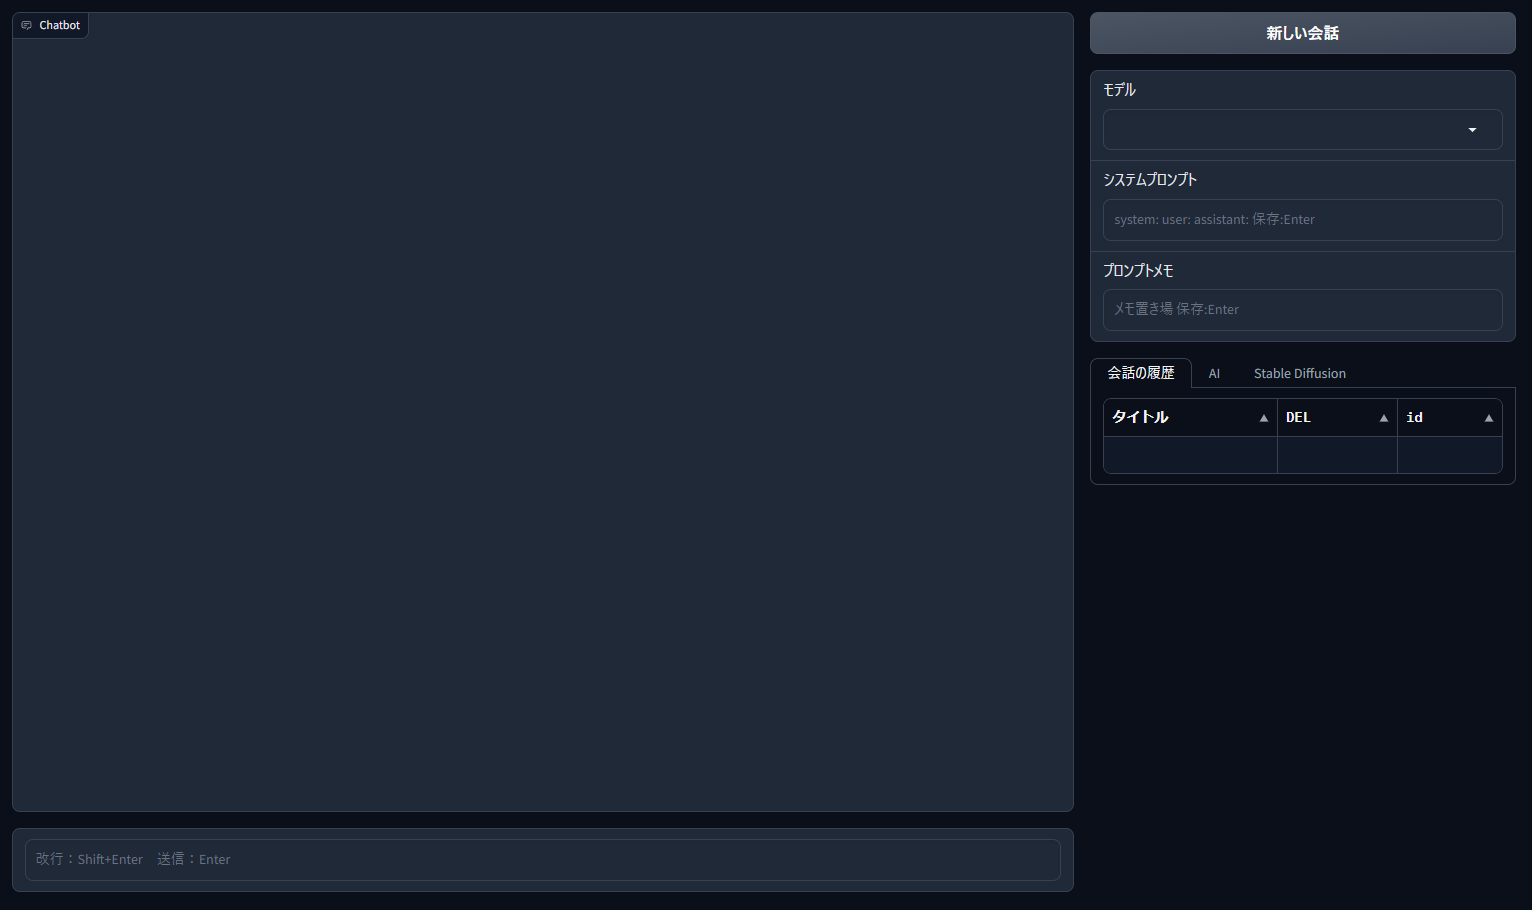
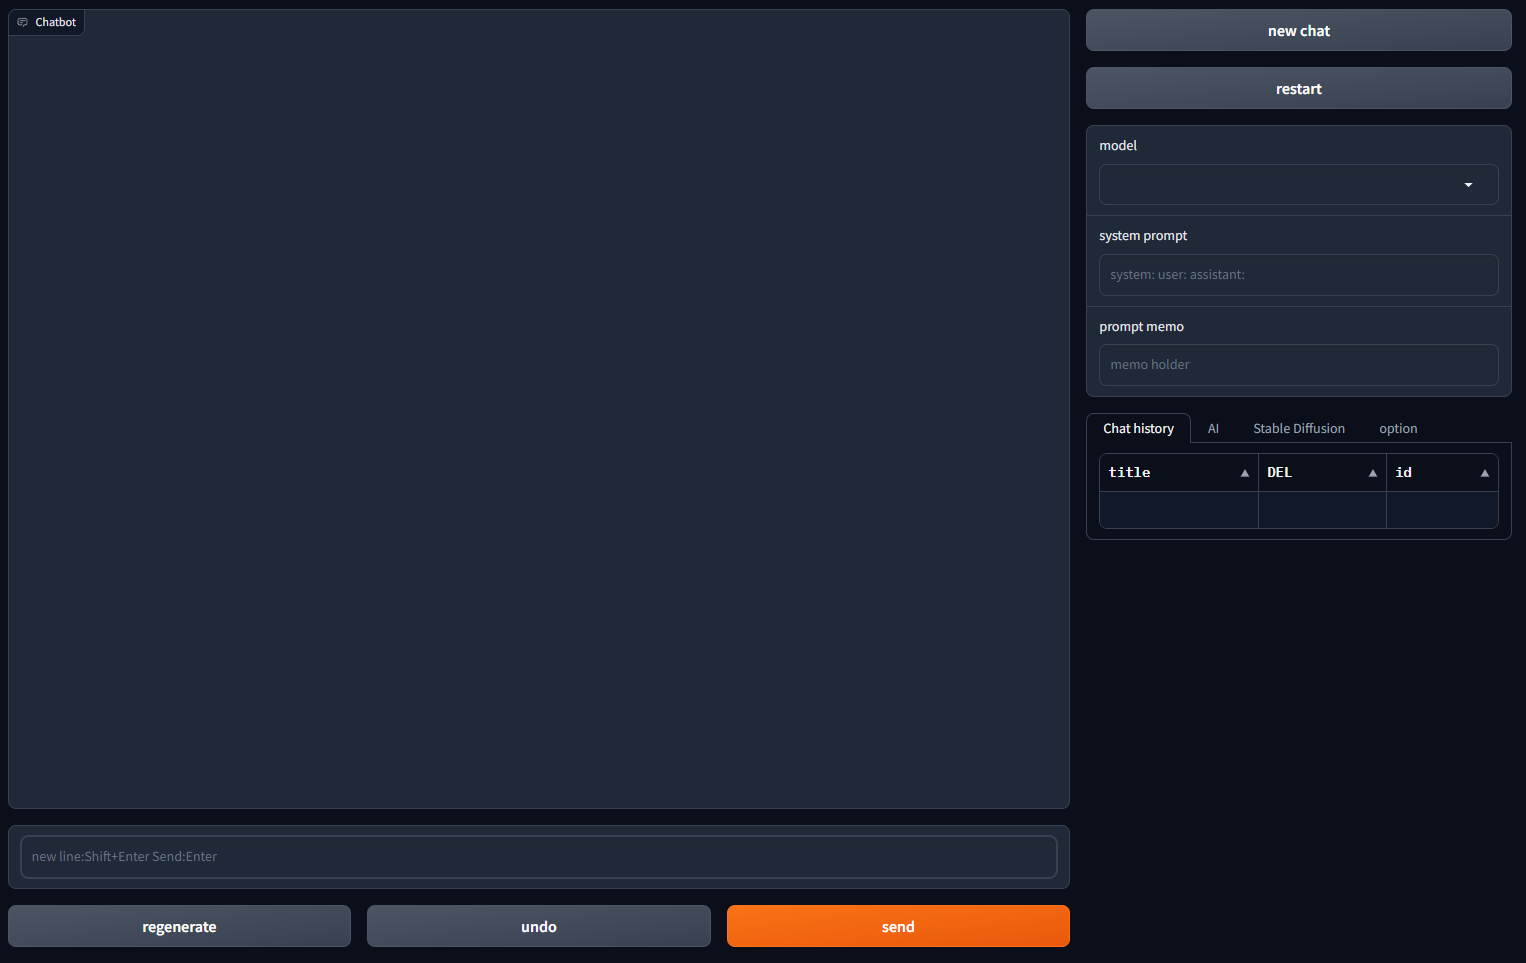
Update README.md

diff --git a/chatswitch.py b/chatswitch.py
@@ -115,7 +115,7 @@ def init_chat():
         'temperature': 0.7,
         'top_p': 0.37,
         'top_k': 100,
-        'typical_p': 1.1,
+        'typical_p': 1,
         'repetition_penalty': 1.23,
         'encoder_repetition_penalty': 1,
         'no_repeat_ngram_size': 0,
@@ -132,7 +132,6 @@ def init_chat():
         'sd_negative': '',
         'sd_chekpoint': '',
     }
-
 
 def load_conversation(data: gr.SelectData, list_history, chatbot) -> int:
     global conversations
@@ -274,7 +273,7 @@ def chat(history,model_txt,ai_temperature,ai_top_p,ai_top_k,ai_typical_p,ai_repe
     talk_paramaters["repetition_penalty"] = ai_repetition_penalty
     talk_paramaters["encoder_repetition_penalty"] = ai_encoder_repetition_penalty
     talk_paramaters["no_repeat_ngram_size"] = ai_no_repeat_ngram_size
-    talk_paramaters["seed"] = int(ai_seed)
+    talk_paramaters["seed"] = int(ai_seed) if ai_seed != '' else -1
     sd_paramaters["sd_enable"] = sd_enable
     sd_paramaters["sd_host"] = sd_host
     sd_paramaters["sd_chekpoint"] = sd_chekpoint
@@ -308,11 +307,11 @@ def chat(history,model_txt,ai_temperature,ai_top_p,ai_top_k,ai_typical_p,ai_repe
     except:
         print(f"genarate_talk error")
         history.pop(-1)
-        return history,user_input,seed
+        return history,user_input
     
     history[-1][1] = output
 
-    ai_response = {"role": talk_paramaters['assistant_role_name'], "content": history[-1][1]}
+    ai_response = {"role": talk_paramaters['assistant_role_name'], "content": history[-1][1], "model": model_txt, "seed": seed}
     messages.append(ai_response)
     if "title" not in current_conversation:
         current_conversation["title"] = user_input[:20]
@@ -329,7 +328,7 @@ def chat(history,model_txt,ai_temperature,ai_top_p,ai_top_k,ai_typical_p,ai_repe
     memory["last_conversation"] = current_conversation["id"]
 
     save_memory()
-    return history,"",seed
+    return history,""
 
 def get_memory_variable(var_name):
     if var_name in memory:
@@ -686,6 +685,7 @@ with gr.Blocks(title="ChatSwitch") as demo:
                 send_button = gr.Button(value=_("send"),variant="primary")
         with gr.Column(scale=2):
             new_button = gr.ClearButton(value=_("new chat"),components=[chatbot])
+            restart_button = gr.Button(value=_("restart"))
             model_txt = gr.Dropdown(label=_("model"),value=model_init,container=True,choices=llm_model_list)
             system_txt = gr.Textbox(label=_("system prompt"),placeholder="system: user: assistant:",value=get_memory_variable("last_system_prompt"),container=True,lines=1)
             prompt_memo = gr.Textbox(label=_("prompt memo"),placeholder=_("memo holder"),value=get_memory_variable("prompt_memo"),container=True,lines=1)
@@ -710,16 +710,17 @@ with gr.Blocks(title="ChatSwitch") as demo:
                 sd_prompt = gr.Textbox(label="prompt",value=sd_prompt_init(),lines=3)
                 sd_negative = gr.Textbox(label="negative prompt",value=sd_negative_init(),lines=2)
             with gr.Tab("option"):
-                language = gr.Dropdown(label="language *need python reboot",value=language_init,container=True,choices=["Englich","日本語"])
+                language = gr.Dropdown(label="language *need restart & reload",value=language_init,container=True,choices=["Englich","日本語"])
 
-    user_prompt_submit = user_prompt.submit(add_text, [chatbot, user_prompt, system_txt], [chatbot, user_prompt, system_txt]).then(chat, inputs=[chatbot,model_txt,ai_temperature,ai_top_p,ai_top_k,ai_typical_p,ai_repetition_penalty,ai_encoder_repetition_penalty,ai_no_repeat_ngram_size,ai_min_length,ai_max_new_tokens,ai_seed,sd_enable,sd_host,sd_prompt,sd_negative,sd_chekpoint], outputs=[chatbot,user_prompt,ai_seed]).then(add_history, list_history, list_history)
+    user_prompt_submit = user_prompt.submit(add_text, [chatbot, user_prompt, system_txt], [chatbot, user_prompt, system_txt]).then(chat, inputs=[chatbot,model_txt,ai_temperature,ai_top_p,ai_top_k,ai_typical_p,ai_repetition_penalty,ai_encoder_repetition_penalty,ai_no_repeat_ngram_size,ai_min_length,ai_max_new_tokens,ai_seed,sd_enable,sd_host,sd_prompt,sd_negative,sd_chekpoint], outputs=[chatbot,user_prompt]).then(add_history, list_history, list_history)
     user_prompt_submit.then(lambda x: gr.update(value=x,interactive=True),[user_prompt],[user_prompt])
-    send = send_button.click(add_text, [chatbot, user_prompt, system_txt], [chatbot, user_prompt, system_txt]).then(chat, inputs=[chatbot,model_txt,ai_temperature,ai_top_p,ai_top_k,ai_typical_p,ai_repetition_penalty,ai_encoder_repetition_penalty,ai_no_repeat_ngram_size,ai_min_length,ai_max_new_tokens,ai_seed,sd_enable,sd_host,sd_prompt,sd_negative,sd_chekpoint], outputs=[chatbot,user_prompt,ai_seed]).then(add_history, list_history, list_history)
+    send = send_button.click(add_text, [chatbot, user_prompt, system_txt], [chatbot, user_prompt, system_txt]).then(chat, inputs=[chatbot,model_txt,ai_temperature,ai_top_p,ai_top_k,ai_typical_p,ai_repetition_penalty,ai_encoder_repetition_penalty,ai_no_repeat_ngram_size,ai_min_length,ai_max_new_tokens,ai_seed,sd_enable,sd_host,sd_prompt,sd_negative,sd_chekpoint], outputs=[chatbot,user_prompt]).then(add_history, list_history, list_history)
     send.then(lambda x: gr.update(value=x,interactive=True),[user_prompt],[user_prompt])
     undo_button.click(undo_message,[chatbot,user_prompt,list_history],[chatbot,user_prompt,list_history])
-    regenerate = regenerate_button.click(undo_message,[chatbot,user_prompt,list_history],[chatbot,user_prompt,list_history]).then(set_random_seed,outputs=ai_seed).then(add_text,[chatbot,user_prompt,system_txt], [chatbot,user_prompt,system_txt]).then(chat, inputs=[chatbot,model_txt,ai_temperature,ai_top_p,ai_top_k,ai_typical_p,ai_repetition_penalty,ai_encoder_repetition_penalty,ai_no_repeat_ngram_size,ai_min_length,ai_max_new_tokens,ai_seed,sd_enable,sd_host,sd_prompt,sd_negative,sd_chekpoint], outputs=[chatbot,user_prompt,ai_seed]).then(add_history, list_history, list_history)
+    regenerate = regenerate_button.click(undo_message,[chatbot,user_prompt,list_history],[chatbot,user_prompt,list_history]).then(set_random_seed,outputs=ai_seed).then(add_text,[chatbot,user_prompt,system_txt], [chatbot,user_prompt,system_txt]).then(chat, inputs=[chatbot,model_txt,ai_temperature,ai_top_p,ai_top_k,ai_typical_p,ai_repetition_penalty,ai_encoder_repetition_penalty,ai_no_repeat_ngram_size,ai_min_length,ai_max_new_tokens,ai_seed,sd_enable,sd_host,sd_prompt,sd_negative,sd_chekpoint], outputs=[chatbot,user_prompt]).then(add_history, list_history, list_history)
     regenerate.then(lambda x: gr.update(value=x,interactive=True),[user_prompt],[user_prompt])
     regenerate.then(lambda: gr.update(interactive=True), None, [user_prompt])
+    restart_button.click(restart)
     new_button.click(new_chat).then(model_load,model_txt)
     model_txt.change(lambda x: memory.update({"last_model": x}),inputs=model_txt).then(save_memory).then(model_load,model_txt,model_txt)
     prompt_memo.change(lambda x: memory.update({"prompt_memo": x}),prompt_memo).then(save_memory)

diff --git a/README.md b/README.md
@@ -41,12 +41,28 @@ For Linux and Mac users, you can start the Web UI by executing the following she
 
 This project allows you to switch between multiple LLMs and chat with them. All settings and conversations are stored locally in a file named `memory.pkl`.
 ![](SS1.png)
+<details><summary>LLMs</summary>
+
+![](SS2.png)
+</details>
+<details><summary>Stable Diffusion</summary>
+
+![](SS3.png)
+</details>
+<details><summary>option</summary>
+
+![](SS4.png)
+</details>
 
 ### Features
 
 - **Switching LLMs**: You can easily switch between different Language Models.
 - **Local Conversations**: All conversations are saved locally in `memory.pkl`, allowing you to resume previous chats.
+- **Japanese language support**:<details><summary>Screen shot</summary>
 
+![](SS5.png)
+</details>
+ 
 ### How to Use
 
 1. **Start the Web UI**: Run `webui.bat` (Windows) or `./webui.sh` (Linux/Mac) to launch the Web UI.
